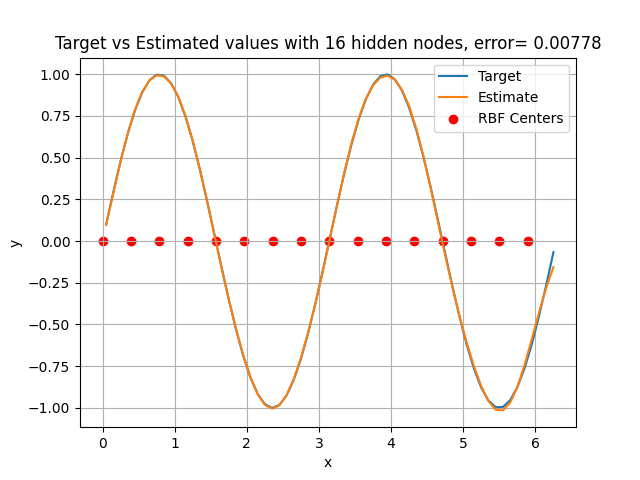
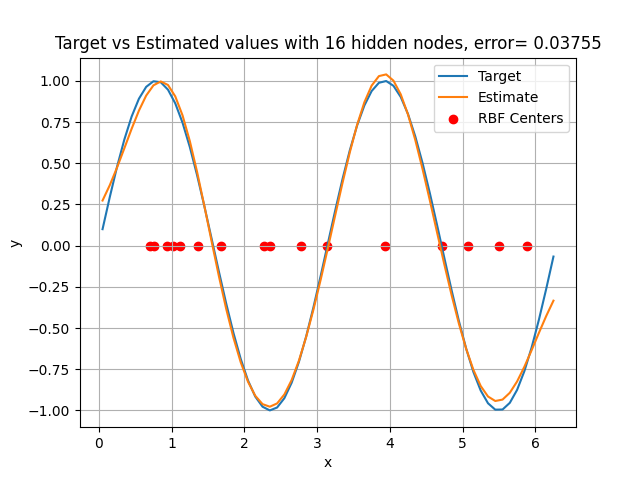
WIP cl

diff --git a/lab2/rbf_hybrid_test.py b/lab2/rbf_hybrid_test.py
@@ -1,0 +1,73 @@
+from rbf import RBF
+from dataset import SinusData
+from dataset import SquareData
+import matplotlib.pyplot as plt
+import numpy as np
+
+def experiment(data, n_nodes, error, n, weight=1.0):
+    rbf_net = RBF(n=n, weight=weight)
+    _, err = rbf_net.hybrid_learning(
+        data.x, data.y, data.x_test, data.y_test)
+    n_nodes.append(rbf_net.n_nodes)
+    error.append(err)
+
+def experiment2(data, n_nodes, error, n):
+    rbf_net = RBF(n=n)
+    rbf_net.centers = np.linspace(0, 2*np.pi, n)
+    rbf_net.n_nodes = n
+    rbf_net.set_sigmas(0.5)
+    _, err = rbf_net.hybrid_learning(
+        data.x, data.y, data.x_test, data.y_test)
+    n_nodes.append(rbf_net.n_nodes)
+    error.append(err)
+
+def experiment_nodes(data):
+    error = []
+    n_nodes = []
+    for i in range(7):
+        experiment(data, n_nodes, error, n=i, weight=1.0)
+        # experiment2(data, n_nodes, error, n=i)
+
+    return error, n_nodes
+
+def plot_error(n_nodes, error, data):
+    plt.scatter(n_nodes, error)
+    plt.xlabel("number of hidden nodes")
+    plt.ylabel("absolute residual error")
+    plt.title("Absolute Residual Error vs number of hidden nodes")
+    plt.legend()
+    plt.savefig(f"images/3.1/{data}_error_{len(n_nodes)}.png")
+    plt.show()
+
+
+def plot_estimate(data, type, n=3):
+    rbf_net = RBF(n=n)
+
+    y_hat, error = rbf_net.hybrid_learning(
+        data.x, data.y, data.x_test, data.y_test)
+    centers, n_nodes = rbf_net.centers, rbf_net.n_nodes
+    plt.plot(data.x_test, data.y_test, label="Target")
+    plt.plot(data.x_test, y_hat, label="Estimate")
+    plt.scatter(centers, [0]*n_nodes, c="r", label="RBF Centers")
+    plt.xlabel("x")
+    plt.ylabel("y")
+    plt.title(f'Target vs Estimated values with {n_nodes} hidden nodes, error= {round(error,5)}')
+    plt.legend()
+    plt.grid(True)
+    plt.savefig(f"images/3.1/{type}/{type}_{n_nodes}.png")
+    plt.show()
+
+
+sin_data = SinusData(noise=False)
+# error, n_nodes = experiment_nodes(sin_data)
+# plot_error(n_nodes, error, "sinus")
+plot_estimate(sin_data, type="sinus", n=2)
+
+
+sqr_data = SquareData(noise=True)
+# error, n_nodes = experiment_nodes(sqr_data)
+# plot_error(n_nodes, error, "square")
+
+plot_estimate(sqr_data, type="square", n=2)
+
+

diff --git a/lab2/rbf.py b/lab2/rbf.py
@@ -42,6 +42,28 @@ class RBF():
         error = np.mean(abs(f_hat-f_test))
         return f_hat, error
 
+    def competitive_learning(self, X, eta=0.1, neigh=3, max_iter=60, seed=42):
+        np.random.seed(42)
+        for i in range(max_iter):
+            x = X[np.random.randint(X.shape[0])]
+            try:
+                distances = [[i_c, np.linalg.norm(x, self.centers[i_c])] for i_c in range(len(self.centers))]
+            except:
+                distances = [[i_c, np.linalg.norm(np.array([x]), np.array([self.centers[i_c]]))] for i_c in range(len(self.centers))]
+
+            distances.sort(key=lambda x: x[1])
+            for i in range(neigh):
+                coef = eta / (distances[i][1] + 1e-3)
+                if coef >= 0.9:
+                    coef = 0.9
+                self.centers[distances[i][0]] += coef * (x - self.centers[distances[i][0]])
+
+    def hybrid_learning(self, X, f, X_test, f_test, lr=0.01, max_iters=250, seed=42, eta=0.1, neigh=3):
+        self.competitive_learning(X, eta, neigh)
+        f_hat, error = self.delta_learning(X, f, X_test, f_test, lr, max_iters, seed)
+        return f_hat, error
+
+
     def set_centers(self, n, drop, weight):
         x_line = np.linspace(0, 2, 9)*np.pi
 
